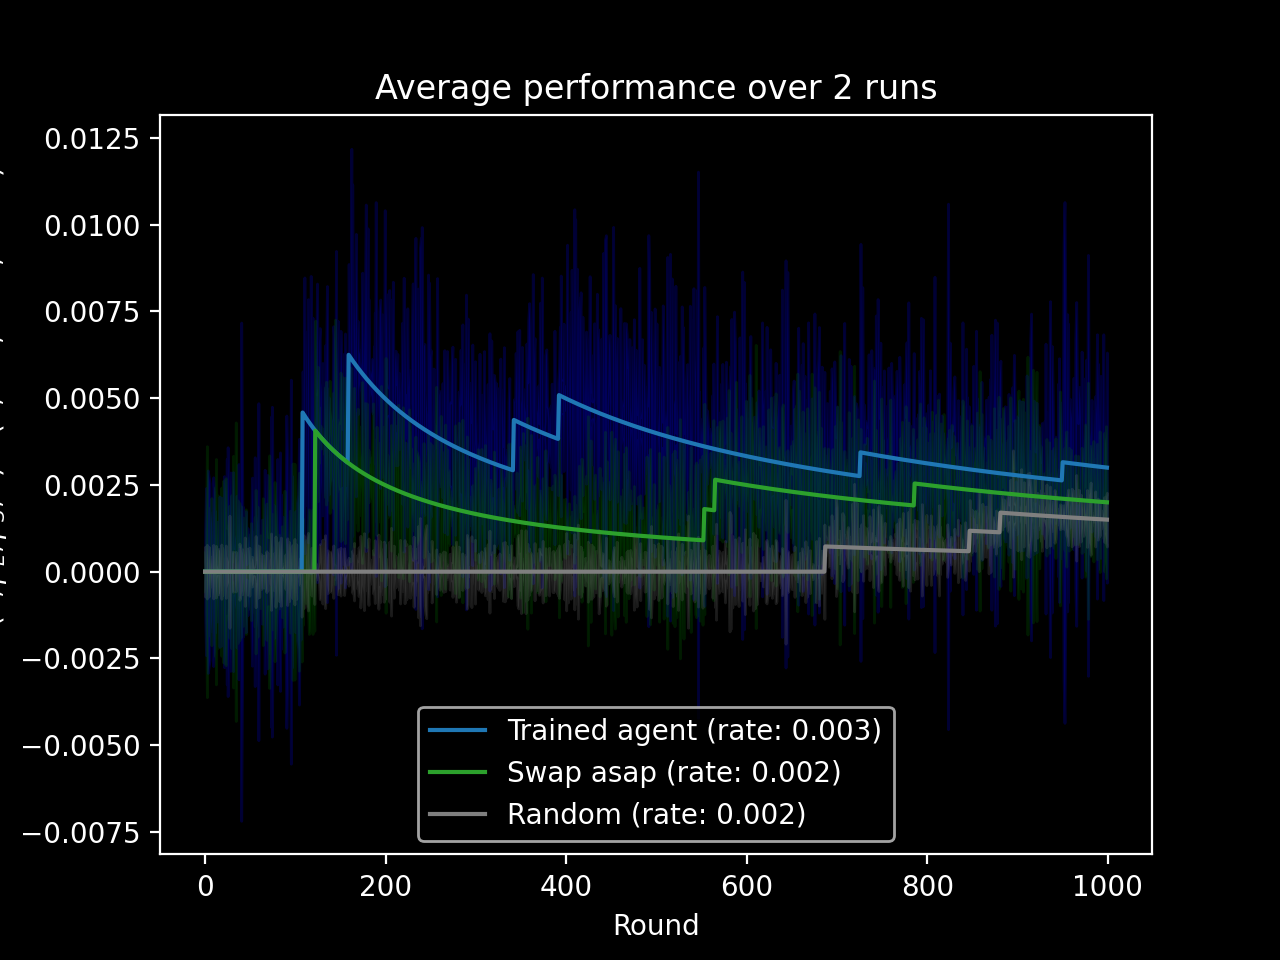
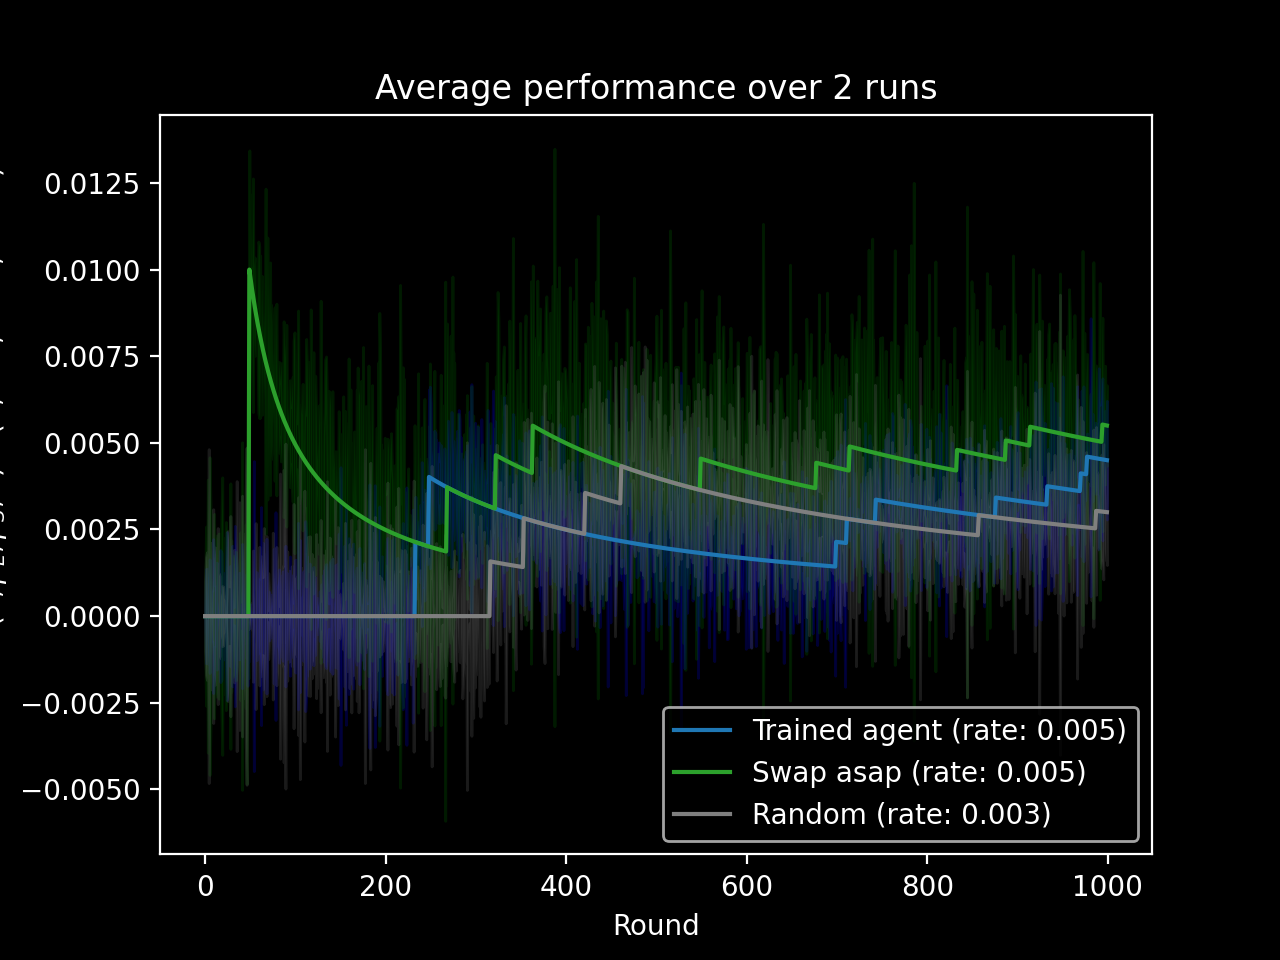
code: polishing

Changed region(s): [[0.1562, 0.1875, 0.9062, 0.875], [0.0312, 0.1875, 0.125, 0.875], [0.0312, 0.125, 0.125, 0.1562]]

diff --git a/src/strategies.py b/src/strategies.py
@@ -16,44 +16,34 @@ class Heuristics():
         pass
 
 
-    def random_action(self) -> list:
-        """Perform a random action at each node"""
-        waits = ['' for _ in range(self.network.n)]
-        entangles = [f'self.entangle({(i,i+1)})' for i in range(self.network.n-1)]
-        swaps = [f'self.swapAT({i})' if (i != 0) and (i !=self.network.n-1) else '' for i in range(self.network.n)] # dont swap ad end nodes
-        return [random.choice([e, s, w]) for e, s, w in zip(entangles, swaps, waits) if random.choice([e, s, w]) is not None]
     
     def stochastic_action(self) -> list:
-        """Perform a random action at each node"""
+        """
+
+        Perform a random action at each node
+
+        """
         waits = ['' for _ in range(self.network.n)]
         entangles = [f'self.entangle({(i,i+1)})' for i in range(self.network.n-1)]
         swaps = [f'self.swapAT({i})' if (i != 0) and (i !=self.network.n-1) else '' for i in range(self.network.n)] # dont swap ad end nodes
         return random.choice([random.choice([e, s, w]) for e, s, w in zip(entangles, swaps, waits) if random.choice([e, s, w]) is not None])
 
     def alternating_action(self, step) -> list:
-        """At even timestep entangle all and at odd swap all"""
+        """
+        
+        At even timestep entangle all and at odd swap all
+        
+        """
         if (step % 2) == 0:
             return [f'self.entangle({(i,i+1)})' for i in range(self.network.n-1)]
         elif (step % 2) == 1:
             return [f'self.swapAT({i})' if (i != 0) and (i !=self.network.n-1) else '' for i in range(self.network.n)]
 
-    def swap_asap(self) -> list:
-        """Performs the swap asap"""
-        actions = []
 
-        for i in range(self.network.n):
-            rightlink = self.has_right_link(i)
-            leftlink = self.has_left_link(i)
+    def swap_asap(self, variant='random'):
 
-            if leftlink > 0 and rightlink > 0:
-                actions.append(f'self.swapAT({i})')
-            elif leftlink == 0:
-                actions.append(f'self.entangle(edge={(i-1,i)})')
-            elif rightlink == 0:
-                actions.append(f'self.entangle(edge={(i,i+1)})')
-        return actions
-    
-    def random_swap_asap(self):
+        if variant not in ['random', 'FN', 'SN']:
+            raise ValueError('Variant not supported')
         swaps = []
         entangles = []
 
@@ -70,7 +60,10 @@ class Heuristics():
                 if not rightlink and node!=self.network.n-1:
                     entangles.append(f'self.entangle(edge={(node,node+1)})')
         if swaps:
-            action = random.choice(swaps)
+            if variant == 'random':
+                action = random.choice(swaps)
+            else:
+                raise ValueError('Only supported variant is random swap asap')
         elif entangles:
             action = random.choice(entangles)
         else:

diff --git a/src/stats.py b/src/stats.py
@@ -174,10 +174,10 @@ def n_scaling_test(experiments,
     errors = np.sqrt((t_err / (ls +1e-5))**2 + (lt*np.log(ls)*s_err)**2) #correctly propagate the error
 
   figure(figsize=(12, 4), dpi=100)
-  plt.plot([n_test[0],n_test[-1]], [0,0], color='g')
+  plt.plot([n_test[0],n_test[-1]], [0,0], color='green')
   plt.fill_between(n_test, -s_err, s_err, color='green', alpha=0.1)
 
-  plt.plot(n_test, performance_array, 'gD', color='b', label=f'Relative performance')
+  plt.plot(n_test, performance_array, 'gD', color='blue', label=f'Relative performance')
   plt.fill_between(n_test, performance_array-errors, performance_array+errors, color='blue', alpha=0.1)
   plt.legend()
   plt.ylabel(f'$(p_e, p_s, τ)=(0.5, 0.5, 100)$')
@@ -186,4 +186,8 @@ def n_scaling_test(experiments,
   plt.xticks(n_test)
   plt.savefig('assets/n_scaling.png') if savefig else None
   plt.show()
+
+
+def test_relevant_experimental_regime():
+  pass
 

diff --git a/src/main.py b/src/main.py
@@ -32,13 +32,19 @@ if __name__ == '__main__':
 	test_stats(agent=agent, 
 			experiments=2, 
 			n_test = 6, 
-			p_entangle=0.3, 
-			p_swap=0.85, 
+			p_entangle=0.5, 
+			p_swap=0.95, 
 			cutoff = 1000,
 			tau=1000, 
 			rounds=1000) 
 
 	# Observe the relative performance of tha agent as N varies
-	n_scaling_test(experiments=10, agent=agent, N_range=range(5,10), p_e=0.3, p_s=0.8, tau=100) if GET_SCALING_STATS else None
-	print(f'Exited in {((time()-t_0)/60):.3f} min')
+	n_scaling_test(experiments=10, 
+				agent=agent, 
+				N_range=range(5,10), 
+				p_e=0.3, 
+				p_s=0.8, 
+				tau=100) if GET_SCALING_STATS else None
+	
+	print(f'Exited in {((time()-t_0)/60):.3f} min :)')
 	

diff --git a/src/agent.py b/src/agent.py
@@ -240,7 +240,7 @@ class AgentGNN(RepeaterNetwork):
           reward += self.update_environment(action)
       elif kind=='swap_asap':
         for _ in range(self.n):
-          action = strategies.random_swap_asap()
+          action = strategies.swap_asap()
           exec(action)
           reward += self.reward()
       elif kind=='random':
